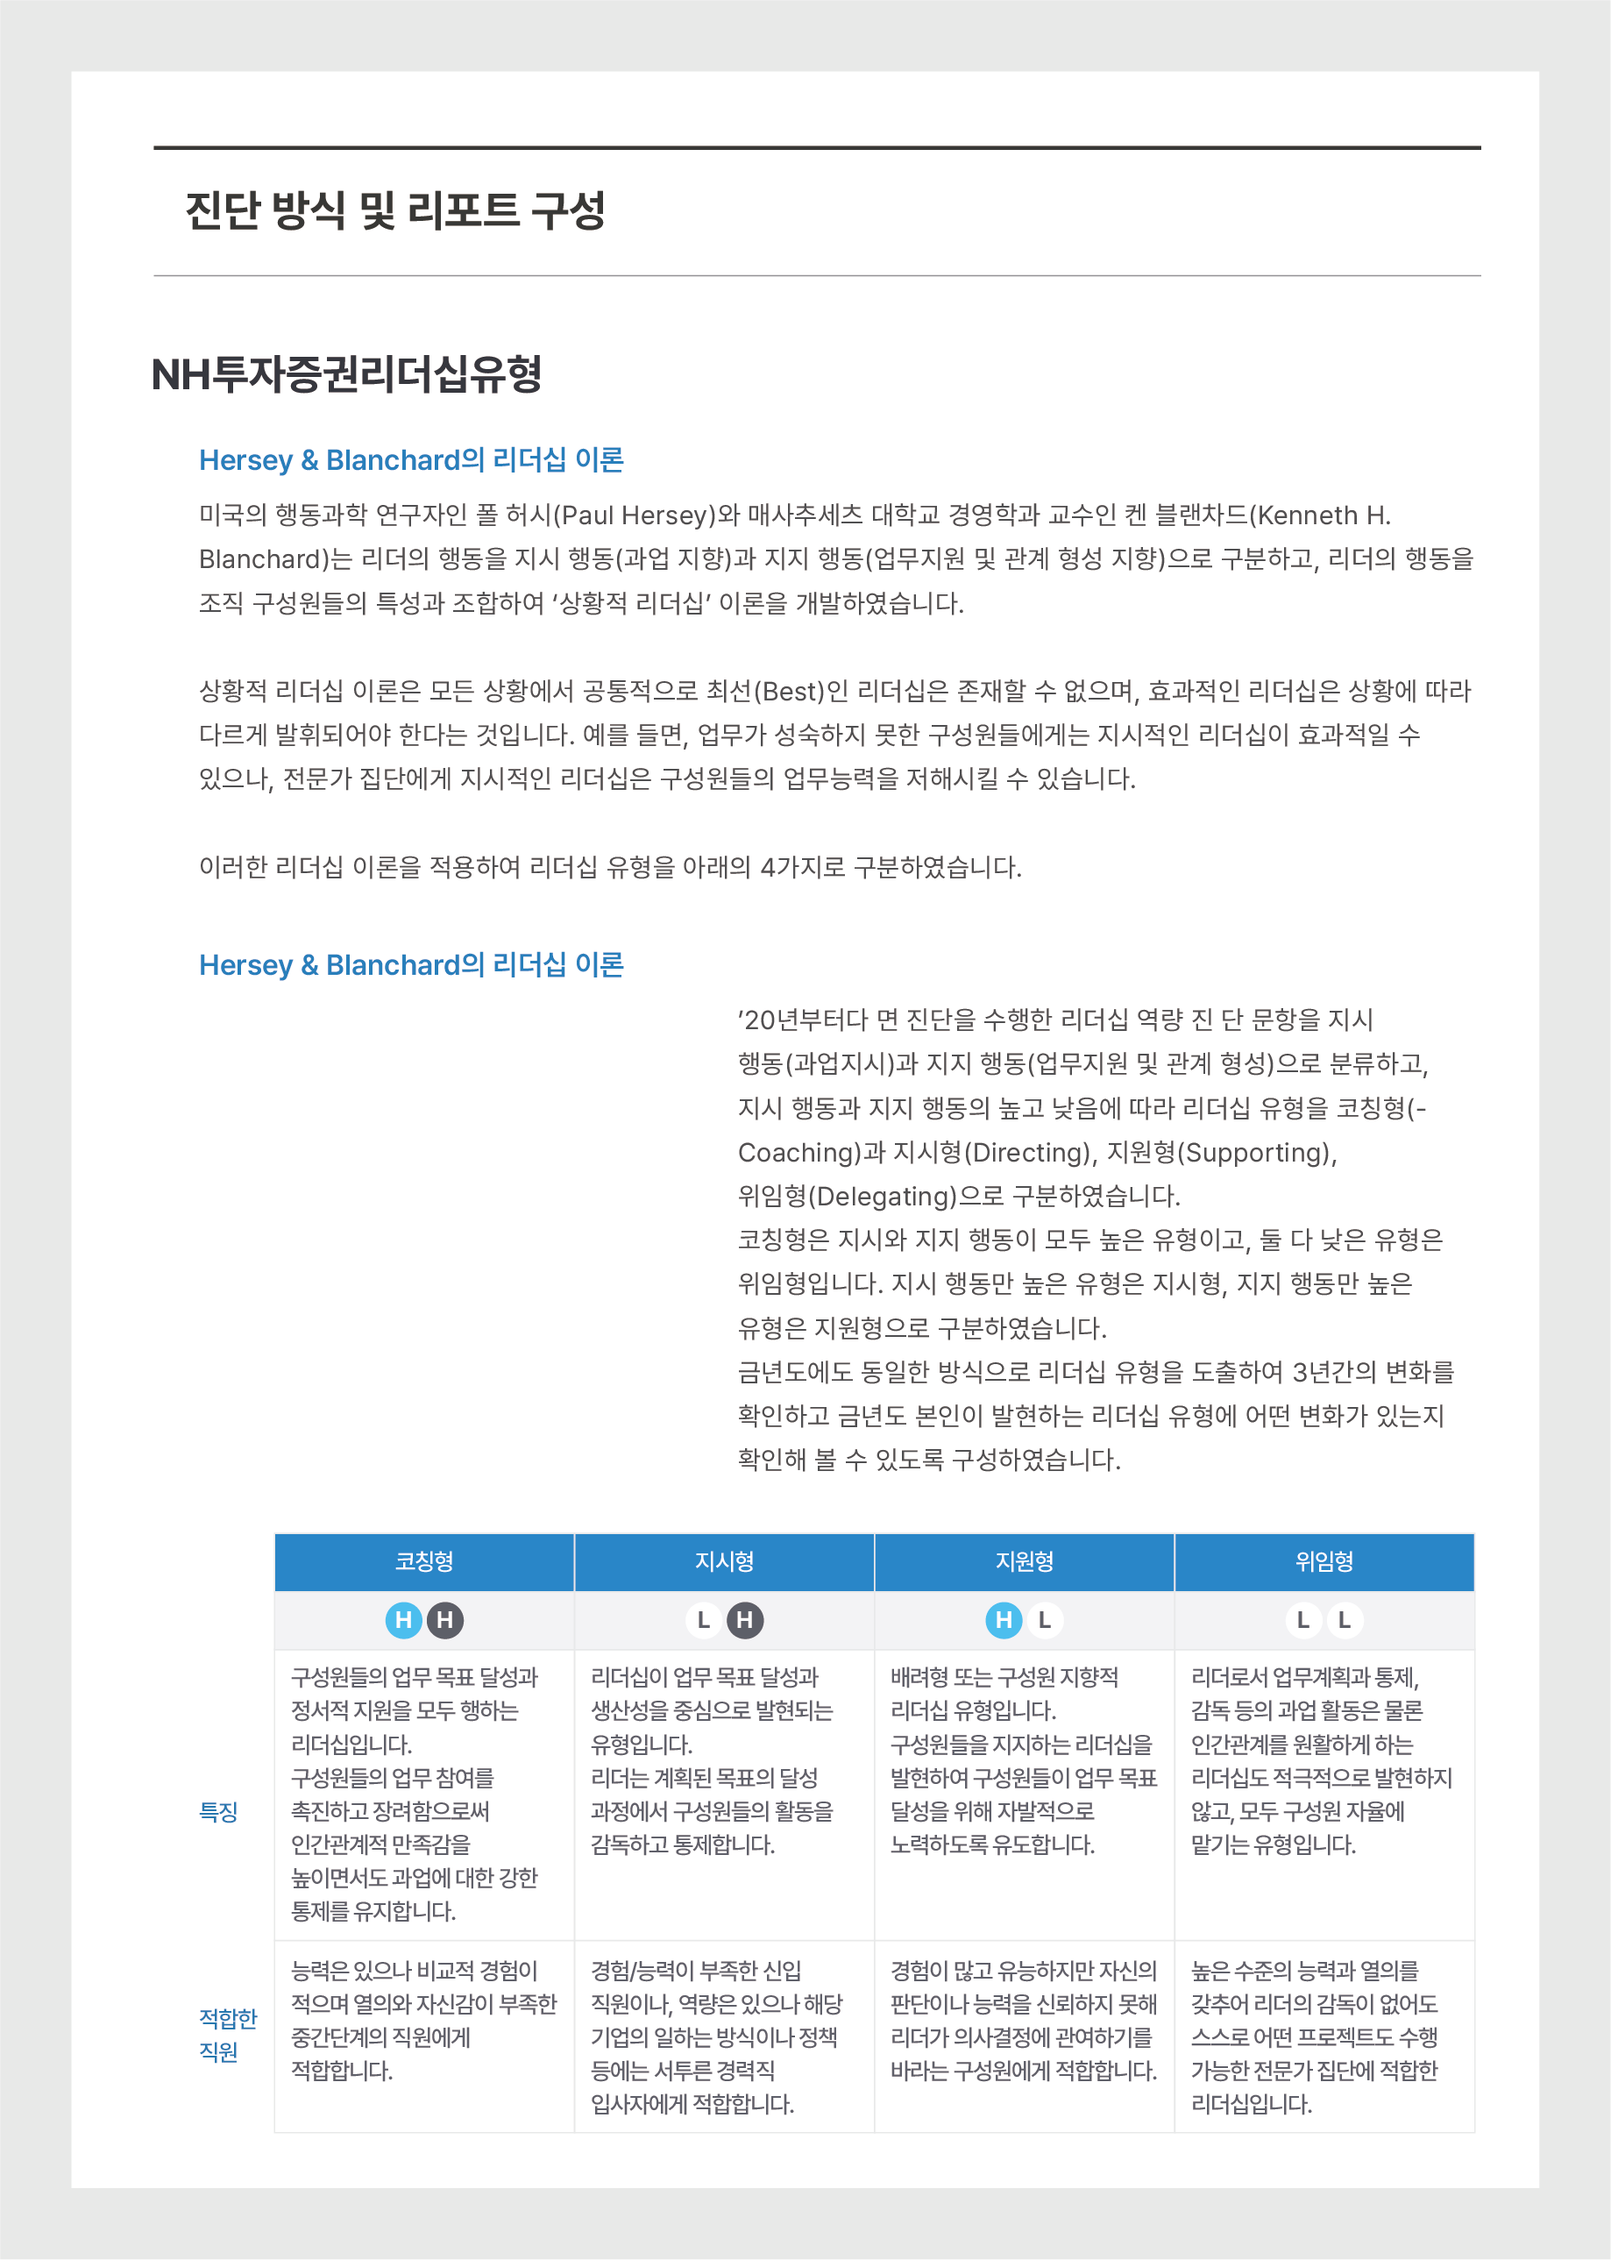
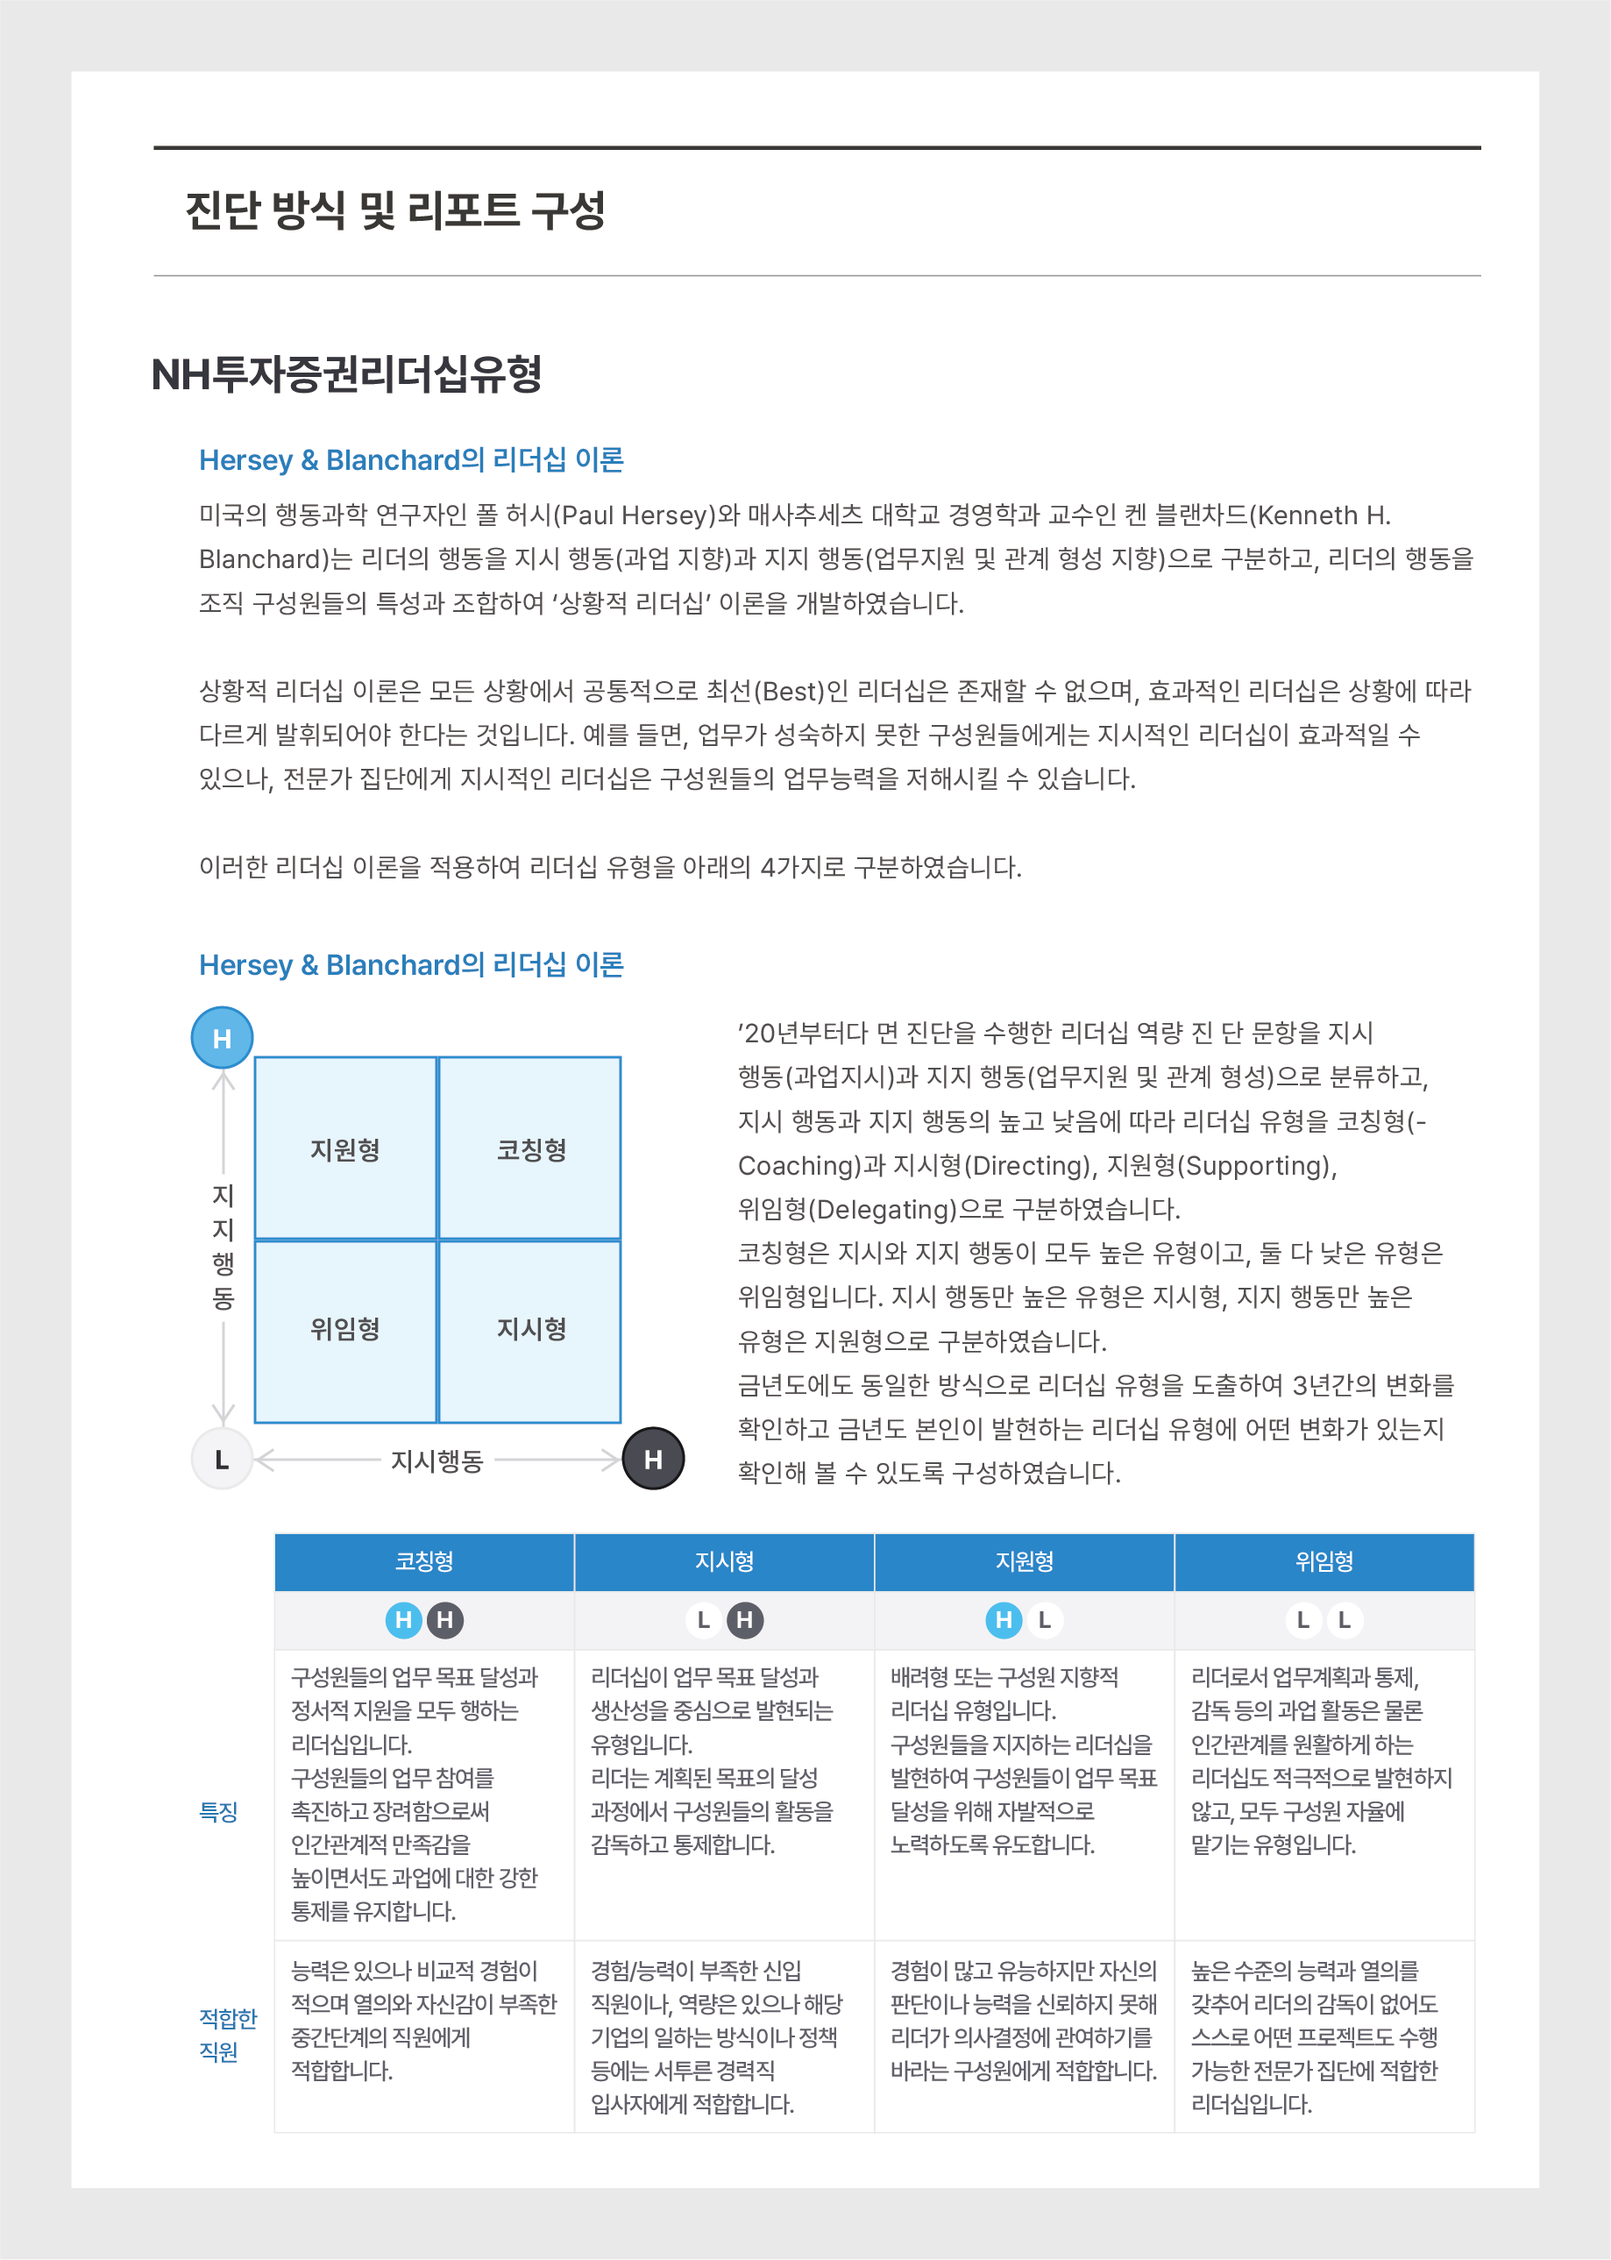
이미지 추가

diff --git a/index.html b/index.html
@@ -20,10 +20,10 @@
           <img class="page 1" src="image/page-1.png"></img>
         </div>
         <div class="image-container">
-          <img class="page 2" src="image/page-2.png"></img>
+          <img class="page 2" src="image/page-2-1.png"></img>
         </div>
         <div class="image-container">
-          <img class="page 2-1" src="image/page-2-1.png"></img>
+          <img class="page 2-1" src="image/page-2-2.png"></img>
         </div>
         <div class="image-container">
           <img class="page 3" src="image/page-3.png"></img>
@@ -48,6 +48,12 @@
         </div>
         <div class="image-container">
           <img class="page 10" src="image/page-10.png"></img>
+        </div>
+        <div class="image-container">
+          <img class="page 11" src="image/page-11.png"></img>
+        </div>
+        <div class="image-container">
+          <img class="page 12" src="image/page-12.png"></img>
         </div>
         <div class="image-container">
           <div class="page 13">
@@ -144,16 +150,34 @@
           </div>
         </div>
         <div class="image-container">
-          <img class="page 30" src="image/page-30.png"></img>
+          <img class="page 29" src="image/page-29.png"></img>
         </div>
         <div class="image-container">
           <img class="page 30-1" src="image/page-30-1.png"></img>
         </div>
         <div class="image-container">
-          <img class="page 31" src="image/page-31.png"></img>
+          <img class="page 30-2" src="image/page-30-2.png"></img>
         </div>
         <div class="image-container">
           <img class="page 31-1" src="image/page-31-1.png"></img>
+        </div>
+        <div class="image-container">
+          <img class="page 31-2" src="image/page-31-2.png"></img>
+        </div>
+        <div class="image-container">
+          <img class="page 32-1" src="image/page-32-1.png"></img>
+        </div>
+        <div class="image-container">
+          <img class="page 32-2" src="image/page-32-2.png"></img>
+        </div>
+        <div class="image-container">
+          <img class="page 33" src="image/page-33.png"></img>
+        </div>
+        <div class="image-container">
+          <img class="page 34" src="image/page-34.png"></img>
+        </div>
+        <div class="image-container">
+          <img class="page 35" src="image/page-35.png"></img>
         </div>
       </div>
 
